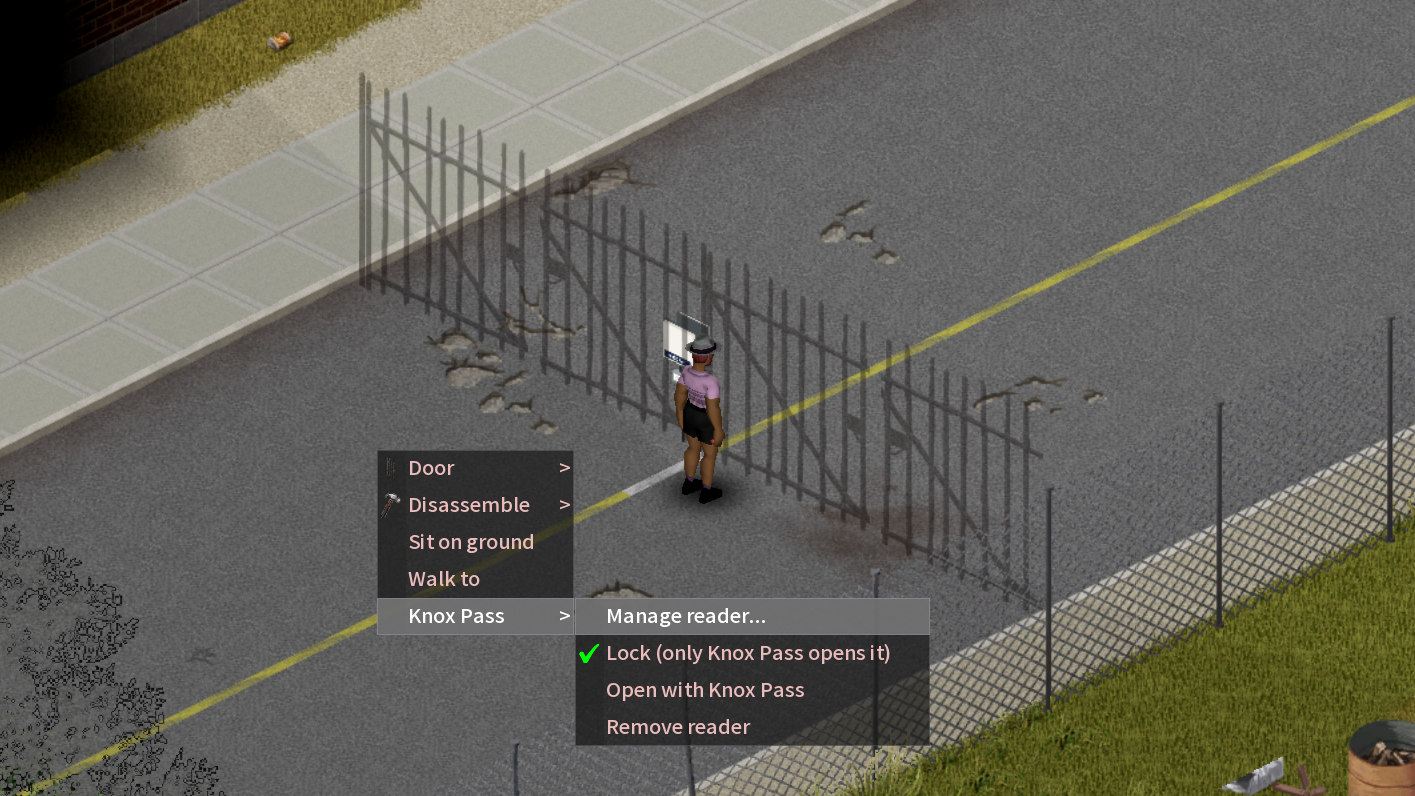
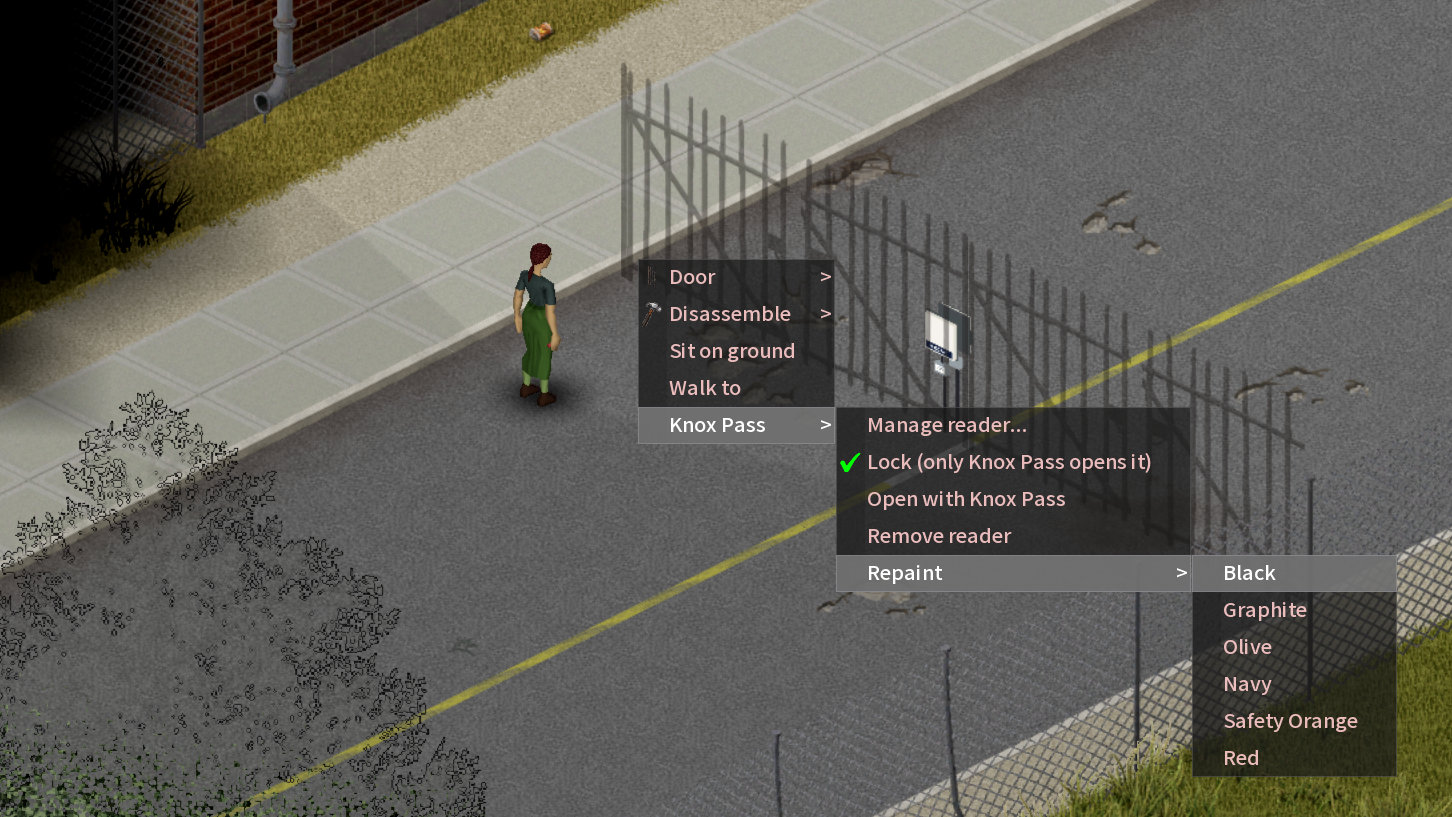
Workshop 截圖：右鍵選單補上重新上色、新增外殼 7 色
06-gate-menu（中英）重拍：Knox Pass 子選單多了「重新上色」，展開顏色清單。新增 11-shell-colors（中英）：7 色讀頭與感應盒擺在大門前，門柱上的讀頭已刷成黑色。都是多人連線實機截圖（knoxpass-wshot3-ch-2／en-2），每張 ≤275,000 bytes。README 右鍵選單的說明補上重新上色；說明串草稿註明名稱由來附原文截圖。

diff --git a/STEAM_DISCUSSION_guide_EN.md b/STEAM_DISCUSSION_guide_EN.md
@@ -101,7 +101,7 @@ Knox Pass lets you drive home without getting out: put a tag in the car and a re
 [*] The game starts on July 9, 1993. 24 days later, on August 2, 1993, the New York State Thruway opened electronic tolling at Spring Valley, the start of E-ZPass ([url=https://rosap.ntl.bts.gov/view/dot/3157/dot_3157_DS1.pdf]E-ZPass evaluation report, 2000[/url]).
 [*] Electronic tolling was already running in Norway in 1987, Dallas in 1989 and Oklahoma in 1991, and in the 1990s the same TollTag could open gated communities ([url=https://transcore.com/wp-content/uploads/2017/01/History-of-RFID-White-Paper.pdf]TransCore's RFID history white paper[/url]).
 [*] The first TollTag in 1989 was a credit-card-sized plastic box about 6 mm thick that hung on the windshield and could move to another car ([url=https://www.dallasnews.com/news/transportation/2014/08/07/as-tolltags-turn-25-originals-hang-on-for-dallas-area-motorists/]Dallas News, 2014[/url]). The Knox Pass tag is modelled on it.
-[*] The original quotes, page numbers and archived links are collected on [url=https://github.com/Minidoracat/MinidoracatKnoxPassFor42/blob/main/docs/name-origin.md]GitHub (in Chinese, quotes in the original English)[/url].
+[*] The original quotes with screenshots of the source pages, page numbers and archived links are collected on [url=https://github.com/Minidoracat/MinidoracatKnoxPassFor42/blob/main/docs/name-origin.md]GitHub (in Chinese, quotes in the original English)[/url].
 [/list]
 
 [h2]❓ FAQ[/h2]

diff --git a/README.md b/README.md
@@ -38,7 +38,7 @@ Project Zomboid Build 42 MOD。
 | 雙開門：讀頭在外端門柱上 | 柵欄門 |
 |---|---|
 | ![雙開門的讀頭](docs/screenshots/readme/reader-double.jpg) | ![柵欄門的讀頭](docs/screenshots/readme/reader-fence.jpg) |
-| **車庫門** | **右鍵選單：管理、上鎖、步行開門** |
+| **車庫門** | **右鍵選單：管理、上鎖、步行開門、重新上色** |
 | ![車庫門的讀頭](docs/screenshots/readme/reader-garage.jpg) | ![右鍵選單](docs/screenshots/steam/zh/06-gate-menu-zh.jpg) |
 
 ### 車用感應盒
